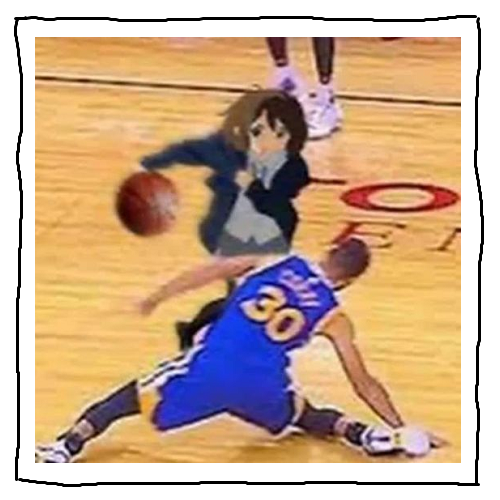
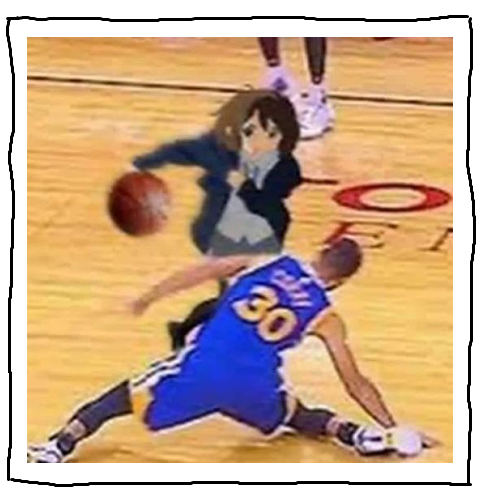
update metadata

diff --git a/src/components/HeaderLogo.tsx b/src/components/HeaderLogo.tsx
@@ -24,10 +24,11 @@ const HeaderLogo = () => {
     }, [isHovered, logoIndex])
 
     return (
-        <a href="/" className="header-logo-container">
-                <img src={Logos[logoIndex]} className="header-logo-img" alt="header-logo" 
-                                            onMouseOver={() => setIsHovered(true)} 
-                                            onMouseOut={() => setIsHovered(false)} />
+        <a href="/" className="header-logo-container"
+            onMouseOver={() => setIsHovered(true)}
+            onMouseOut={() => setIsHovered(false)}
+        >
+            <img src={Logos[logoIndex]} className="header-logo-img" alt="header-logo" />
         </a>
     );
 }

diff --git a/public/index.html b/public/index.html
@@ -6,7 +6,7 @@
     <meta name="viewport" content="width=device-width, initial-scale=1" />
     <meta name="theme-color" content="#000000" />
     <meta
-      name="bluetayden"
+      name="description"
       content="links and socials"
     />
     <link rel="apple-touch-icon" href="%PUBLIC_URL%/logo192.png" />

diff --git a/src/components/SocialIcon.tsx b/src/components/SocialIcon.tsx
@@ -18,7 +18,8 @@ const SocialIcon = (props: SocialIconProps) => {
 
     const hoverStyle = {
         transition: "color 0.2s",
-        color: hoverColour
+        color: hoverColour,
+        backgroundColor: "transparent"
     }
 
     return (

diff --git a/src/styles/Ballin.css b/src/styles/Ballin.css
@@ -10,9 +10,9 @@
     cursor: pointer;
 }
 
-@media (min-width: 500px) {
+@media (min-width: 400px) {
     .ballin-img {
-        width: 500px;
+        width: 400px;
         margin: auto;
     }
 }

diff --git a/src/styles/HeaderLogo.css b/src/styles/HeaderLogo.css
@@ -3,10 +3,6 @@
     flex-direction: column;
 }
 
-.header-logo-img {
-    flex-grow: 1;
-}
-
 @media (min-width: 390px) {
     .header-logo-img {
         width: 390px;
